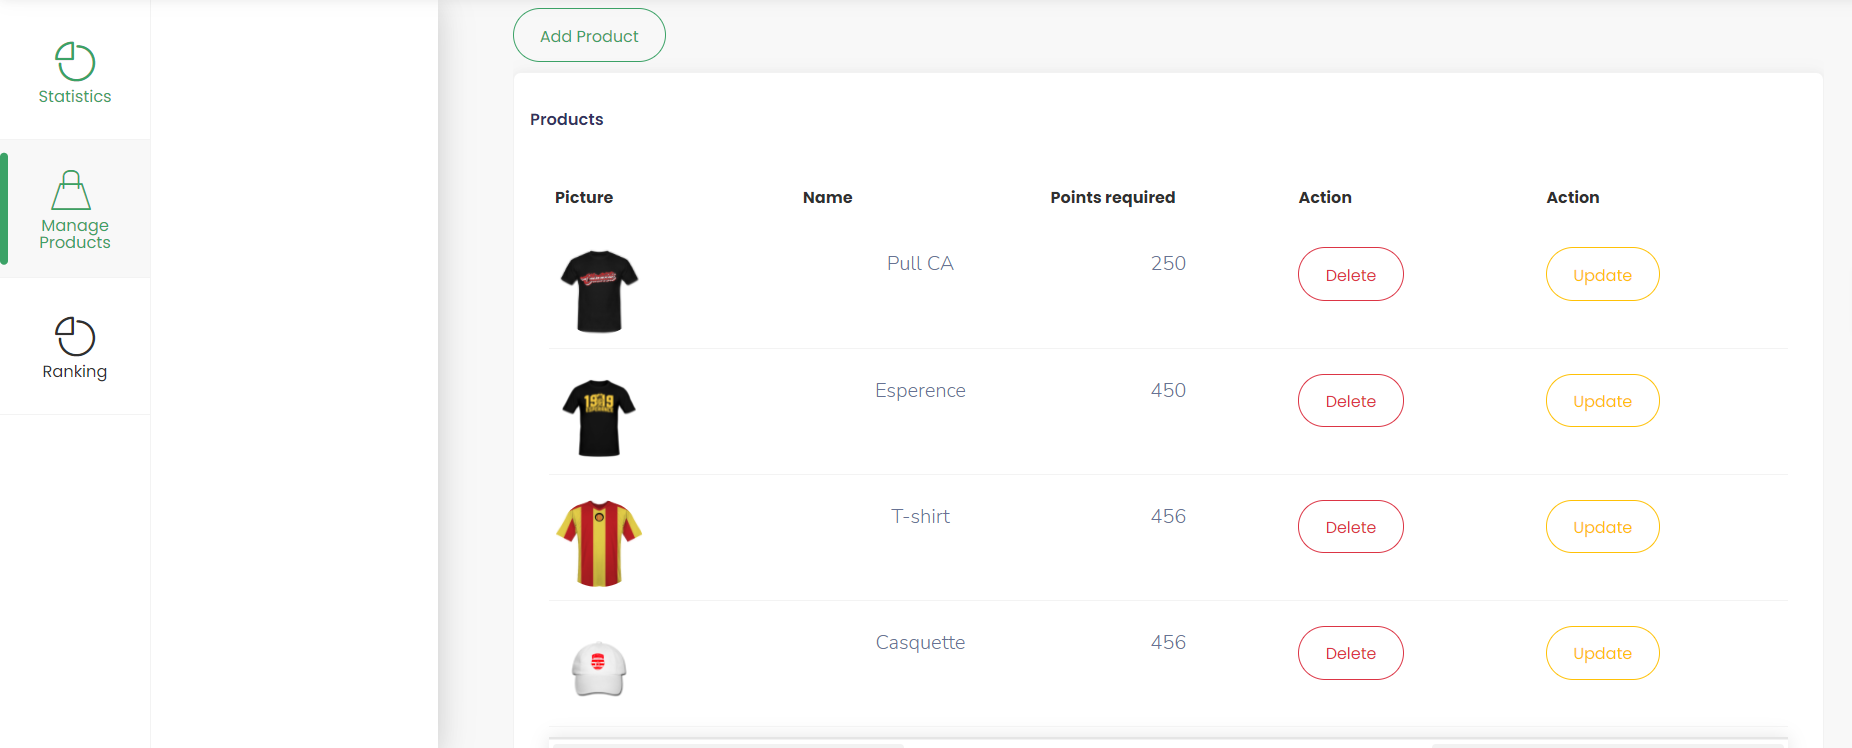
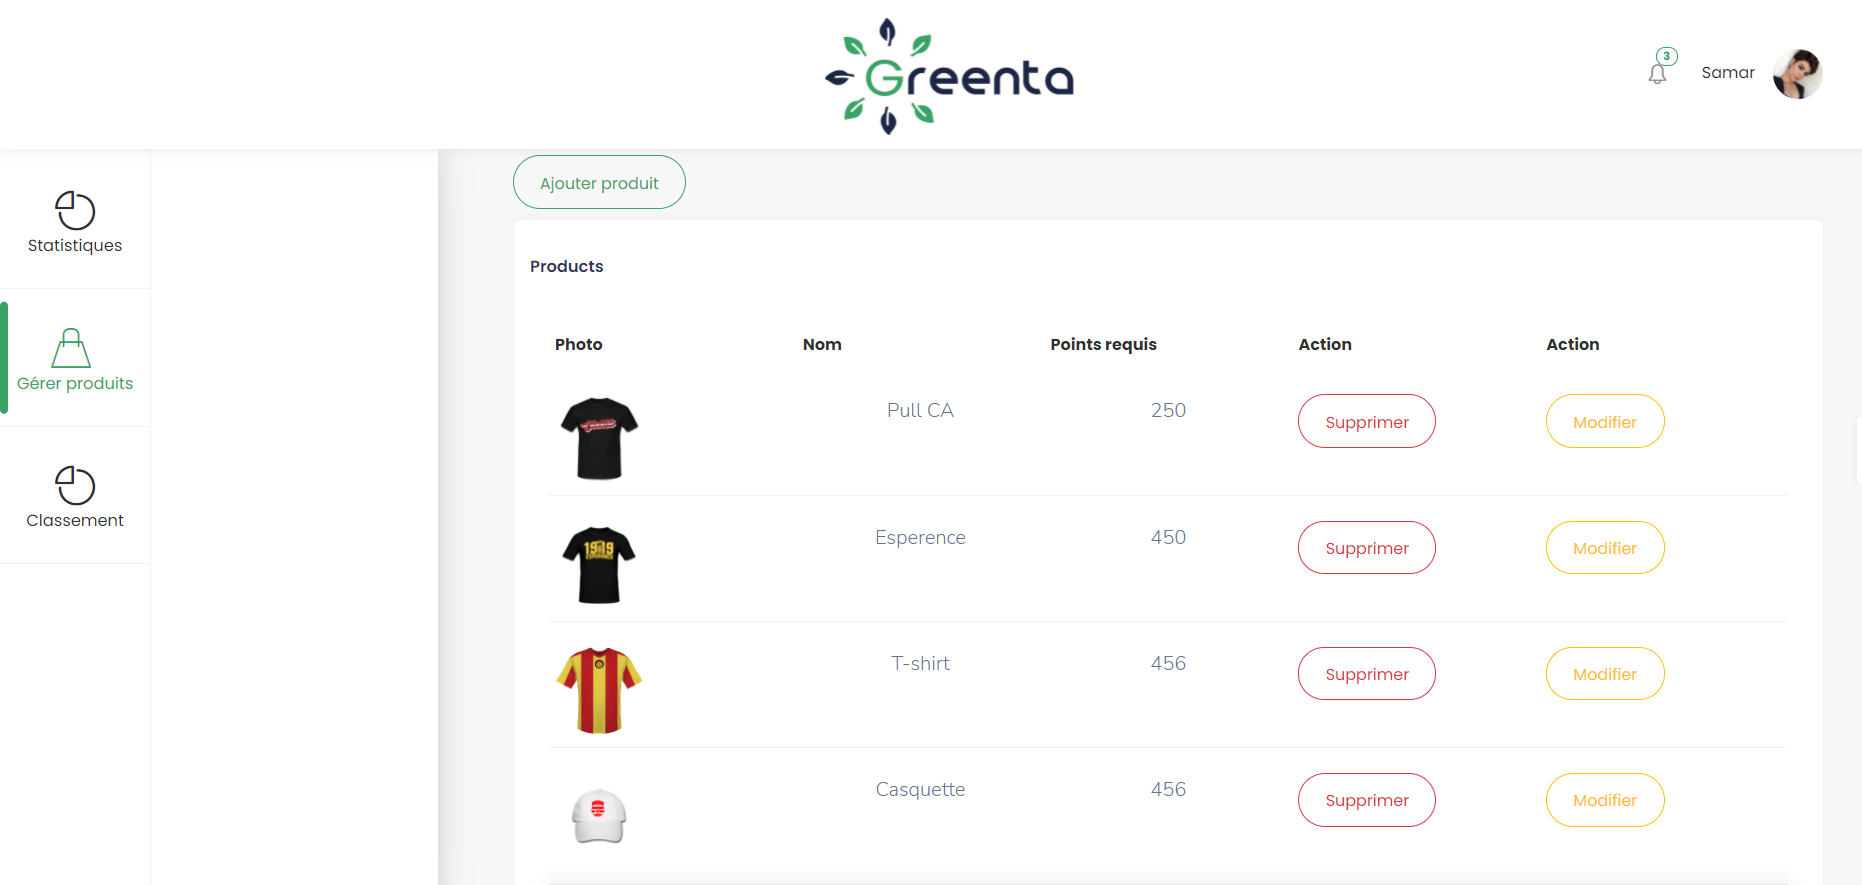
Photo

diff --git a/src/views/app/dashboards/dashboardteam.js b/src/views/app/dashboards/dashboardteam.js
@@ -1,36 +1,11 @@
 import React, { useEffect, Component, Fragment, useState } from "react";
-import { injectIntl } from "react-intl";
-import IconCards from "../../../containers/ui/IconCards";
-import { Colxx, Separator } from "../../../components/common/CustomBootstrap";
-import Breadcrumb from "../../../containers/navs/Breadcrumb";
-import ThumbListView from "../../../views/app/pages/thumb";
-import IconCardsCarousel from "../../../containers/dashboards/IconCardsCarousel";
-import Ranking2 from "../../../containers/dashboards/RankingBoard2";
-import Tickets from "../../../containers/dashboards/Tickets";
-import Calendar from "../../../containers/dashboards/Calendar";
-import Ranking from "../../../containers/dashboards/RankingBoard1";
-import {AddSupporter} from '../../../components/redux/supporters/suppActions'
-import {
-  ReactTableWithScrollableCard,
-  ReactTableWithScrollableCardTeams,
-  ReactTableWithScrollableCardCenters
-} from "../../../containers/ui/ReactTableCardsAdmin";
+import { Colxx } from "../../../components/common/CustomBootstrap";
 import { Row, Card, CardBody, CardTitle, Table, Button } from "reactstrap";
-import {Link} from 'react-router-dom';
 import IntlMessages from "../../../helpers/IntlMessages";
-import Cakes from "../../../containers/dashboards/Cakes";
-import SalesChartCard from "../../../containers/dashboards/SalesChartCard";
-import ProductCategoriesDoughnut from "../../../containers/dashboards/ProductCategoriesDoughnut";
 import { useDispatch, useSelector } from 'react-redux';
-import SignUp from "../../../Pages/SignUp";
-import SignUpForm from "../../../components/SignUpForm";
-import FormSupporter from './formSupporter'
-import TopNav from '../../../containers/navs/Topnav'
-import SideNav from '../../../containers/navs/Sidebar'
 import PerfectScrollbar from "react-perfect-scrollbar";
 import ReactTable from "react-table";
 import classnames from "classnames";
-import Products from "../../../views/app/pages/image-list"
 import {fetchProducts, addProduct, deleteProduct, updateProduct} from '../../../components/redux/products/productActions'
 
 
@@ -99,7 +74,7 @@ export default function EcommerceDashboard()  {
   , [])   
       const Columns = [
         {
-          Header: "Picture",
+          Header: "Photo",
           accessor: "Picture",
           Cell: props => <img
           src={props.value}
@@ -109,24 +84,24 @@ export default function EcommerceDashboard()  {
         />
         },
         {
-          Header: "Name",
+          Header: "Nom",
           accessor: "Name",
           Cell: props => <p className="list-item-heading">{props.value}</p>
         },
         {
-          Header: "Points required",
+          Header: "Points requis",
           accessor: "Points_Required",
           Cell: props => <p className="list-item-heading">{props.value}</p>
         },
         {
           Header: "Action",
           accessor: "_id",
-          Cell: props => <button className="btn btn-outline-danger" onClick={() => dispatch(deleteProduct(props.value))} >Delete</button>
+          Cell: props => <button className="btn btn-outline-danger" onClick={() => dispatch(deleteProduct(props.value))} >Supprimer</button>
         },
         {
           Header: "Action",
           accessor: "_id",
-          Cell: props => <button className="btn btn-outline-warning" onClick={() => (setShow(true), setVal("Update") , productsData.products.filter( e => props.value === e._id)).map((data) => {setProduct(data) })}>Update</button>
+          Cell: props => <button className="btn btn-outline-warning" onClick={() => (setShow(true), setVal("Update") , productsData.products.filter( e => props.value === e._id)).map((data) => {setProduct(data) })}>Modifier</button>
         }
     ];
       return (

diff --git a/src/lang/locales/en_US.js b/src/lang/locales/en_US.js
@@ -56,11 +56,11 @@ module.exports = {
   "menu.manageusers": "Manage Users",
   "menu.managesupporters": "Manage Supporters",
   "menu.manageteams": "Manage Teams",
-  "menu.products": "Manage Products",
+  "menu.products": "Gérer produits",
   "menu.managecollect": "Manage Collect Centers",
   "menu.managetrash": "Manage Trash Bins",
-  "menu.ranking": "Ranking",
-  "menu.statistics": "Statistics",
+  "menu.ranking": "Classement",
+  "menu.statistics": "Statistiques",
   "menu.app": "Home",
   "menu.dashboards": "Dashboards",
   "menu.default": "Default",
@@ -338,7 +338,7 @@ module.exports = {
   "button.add.supporter": "Add Supporter",
   "button.add.team": "Add Team",
   "button.add.center": "Add Collect Center",
-  "button.add.product": "Add Product",
+  "button.add.product": "Ajouter produit",
   "button.success": "Success",
   "button.danger": "Danger",
   "button.warning": "Warning",

diff --git a/src/constants/menu.js b/src/constants/menu.js
@@ -3,7 +3,7 @@ const data = {
   "Admin" : [
 
   {
-    id: "Statistics",
+    id: "Statiqtiques",
     icon: "simple-icon-pie-chart",
     label: "menu.statistics",
     to: "/app/dashboards/analytics",
@@ -64,19 +64,19 @@ const data = {
   "Team" : 
   [
     {
-      id: "Statistics",
+      id: "Statistiques",
       icon: "simple-icon-pie-chart",
       label: "menu.statistics",
       to: "/app/dashboards/analytics",
     },
     {
-      id: "Products",
+      id: "Produits",
       icon: "iconsminds-shopping-bag",
       label: "menu.products",
       to: "/app/dashboards/dashboard-team",
     },
     {
-      id: "Ranking",
+      id: "Classement",
       icon: "simple-icon-pie-chart",
       label: "menu.ranking",
       to: "/app/dashboards/ranking",

diff --git a/src/views/app/pages/store.js b/src/views/app/pages/store.js
@@ -46,7 +46,7 @@ const ImageListView = ({ }) => {
                 <h2>{team} Store</h2>
                 <div className="dropdown">
                 <button className="btn_get btn_hover" type="button" id="dropdownMenuButton" data-toggle="dropdown" aria-haspopup="true" aria-expanded="false">
-                  Filter by Category
+                  Catégorie
                 </button>
                 <div className="dropdown-menu" aria-labelledby="dropdownMenuButton">
                 <a className="dropdown-item" onClick={() => (setSelected(false))}>All Categories</a> 
